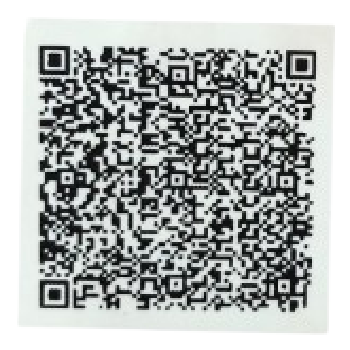
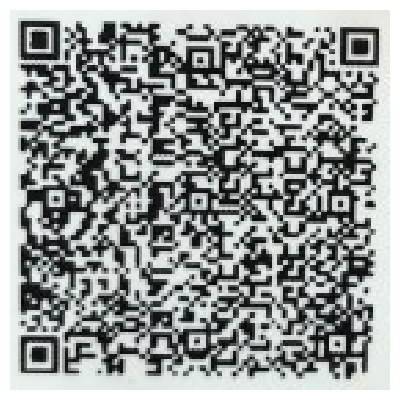
Maximize scanner QR code image to fit available margin

diff --git a/billing/preview_bill.php b/billing/preview_bill.php
@@ -636,9 +636,9 @@ $amountInWords = numberToWords($bill['grand_total']);
                                         <div class="detail-row"><strong>IFSC:</strong> UTIB0005290</div>
                                         <div class="detail-row"><strong>CITY:</strong> Kanpur, Uttar Pradesh </div>
                                     </td>
-                                    <td style="vertical-align: middle; text-align: center; width: 180px; border: none; padding: 0 0 0 12px;">
+                                    <td style="vertical-align: middle; text-align: center; width: 195px; border: none; padding: 0 0 0 10px;">
                                         <div style="display: inline-block; text-align: center;">
-                                            <img src="bank-qr-code.png" alt="Scan to Pay QR Code" style="width: 170px; height: 170px; border: 1px solid #ccc; padding: 4px; background: #fff; border-radius: 4px; display: block; margin: 0 auto; box-shadow: 0 1px 3px rgba(0,0,0,0.08);">
+                                            <img src="bank-qr-code.png" alt="Scan to Pay QR Code" style="width: 185px; height: 185px; border: 1px solid #ddd; padding: 2px; background: #fff; border-radius: 4px; display: block; margin: 0 auto; box-shadow: 0 1px 3px rgba(0,0,0,0.08);">
                                             <span style="font-size: 12px; font-weight: bold; color: #333; display: block; margin-top: 5px;">Scan to Pay</span>
                                         </div>
                                     </td>

diff --git a/billing/download_pdf.php b/billing/download_pdf.php
@@ -737,9 +737,9 @@ header('Content-Type: text/html; charset=utf-8');
                             <div class="detail-row"><strong>IFSC:</strong> UTIB0005290</div>
                             <div class="detail-row"><strong>CITY:</strong> Kanpur, Uttar Pradesh </div>
                         </td>
-                        <td style="vertical-align: middle; text-align: center; width: 160px; border: none; padding: 0 0 0 10px;">
+                        <td style="vertical-align: middle; text-align: center; width: 170px; border: none; padding: 0 0 0 8px;">
                             <div style="display: inline-block; text-align: center;">
-                                <img src="bank-qr-code.png" alt="Scan to Pay QR Code" style="width: 150px; height: 150px; border: 1px solid #ccc; padding: 3px; background: #fff; border-radius: 3px; display: block; margin: 0 auto;">
+                                <img src="bank-qr-code.png" alt="Scan to Pay QR Code" style="width: 160px; height: 160px; border: 1px solid #ddd; padding: 2px; background: #fff; border-radius: 3px; display: block; margin: 0 auto;">
                                 <span style="font-size: 10px; font-weight: bold; color: #333; display: block; margin-top: 4px;">Scan to Pay</span>
                             </div>
                         </td>
